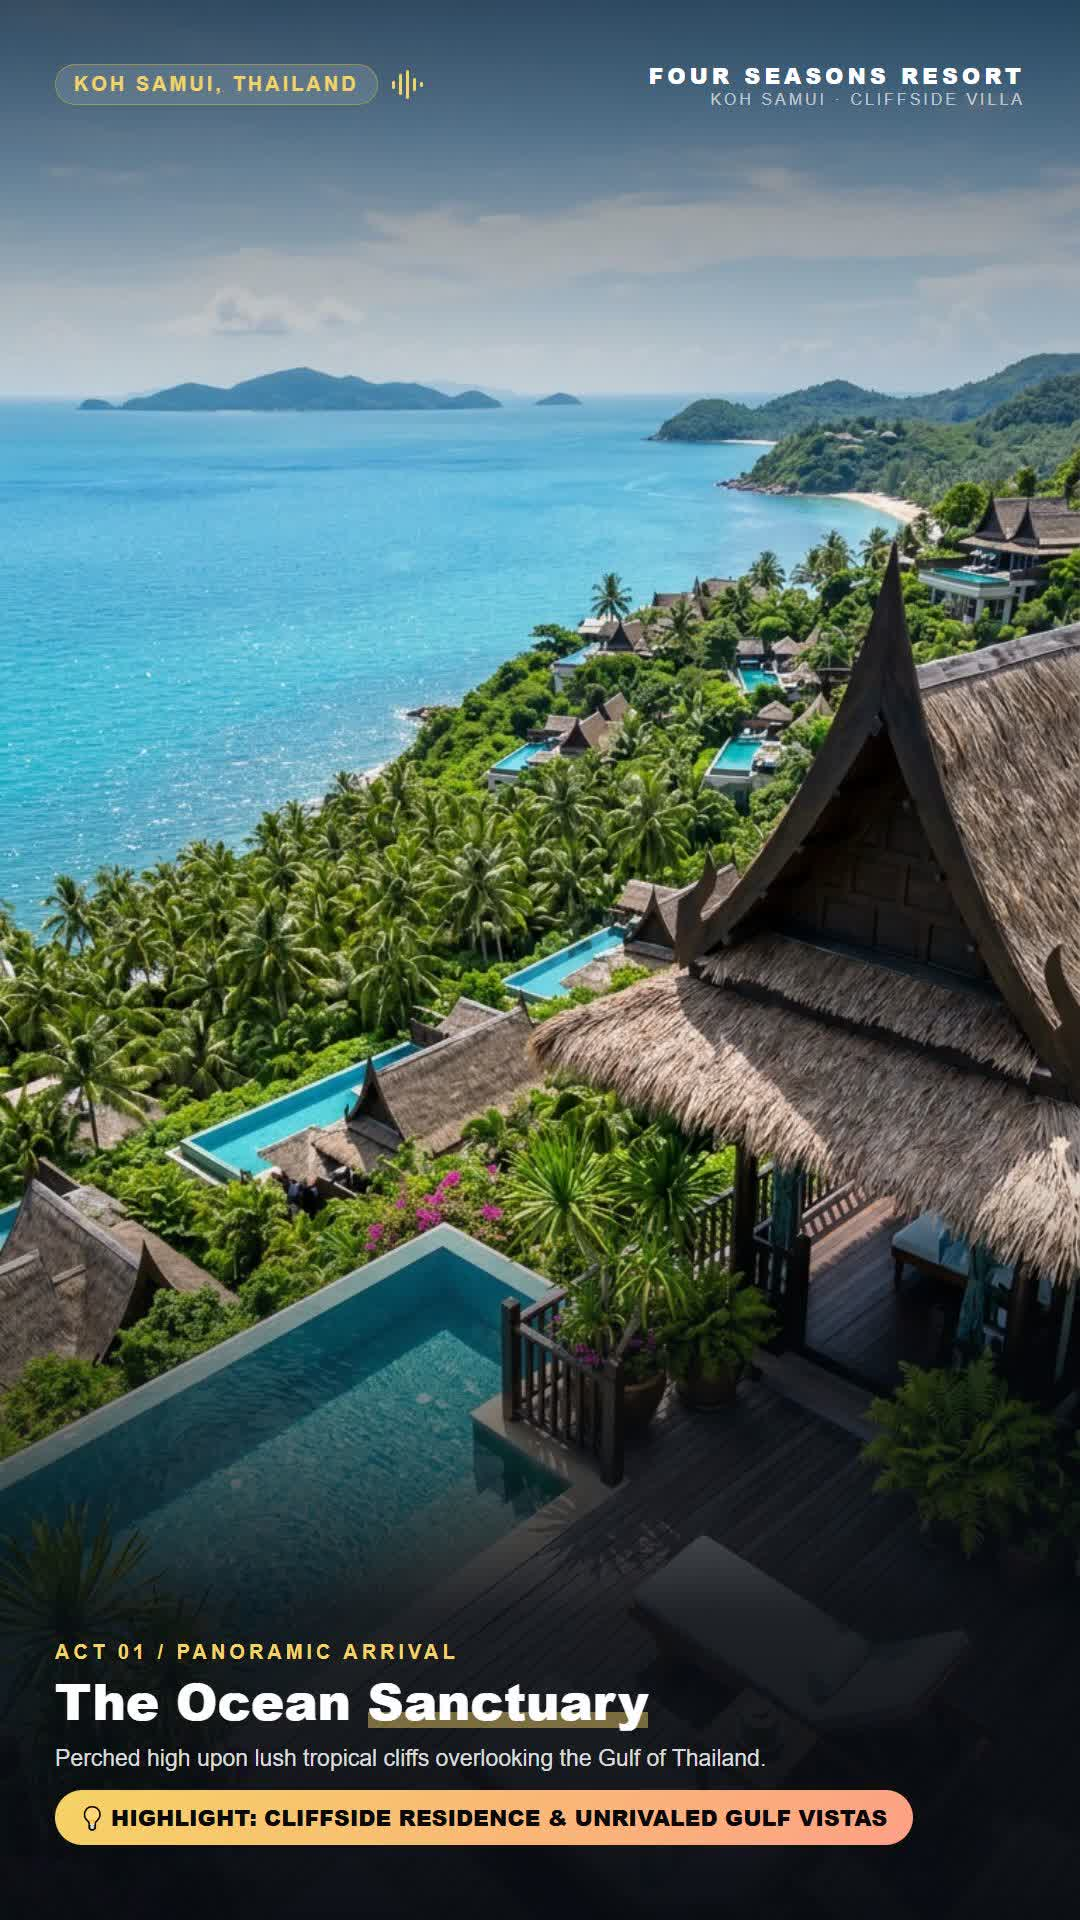
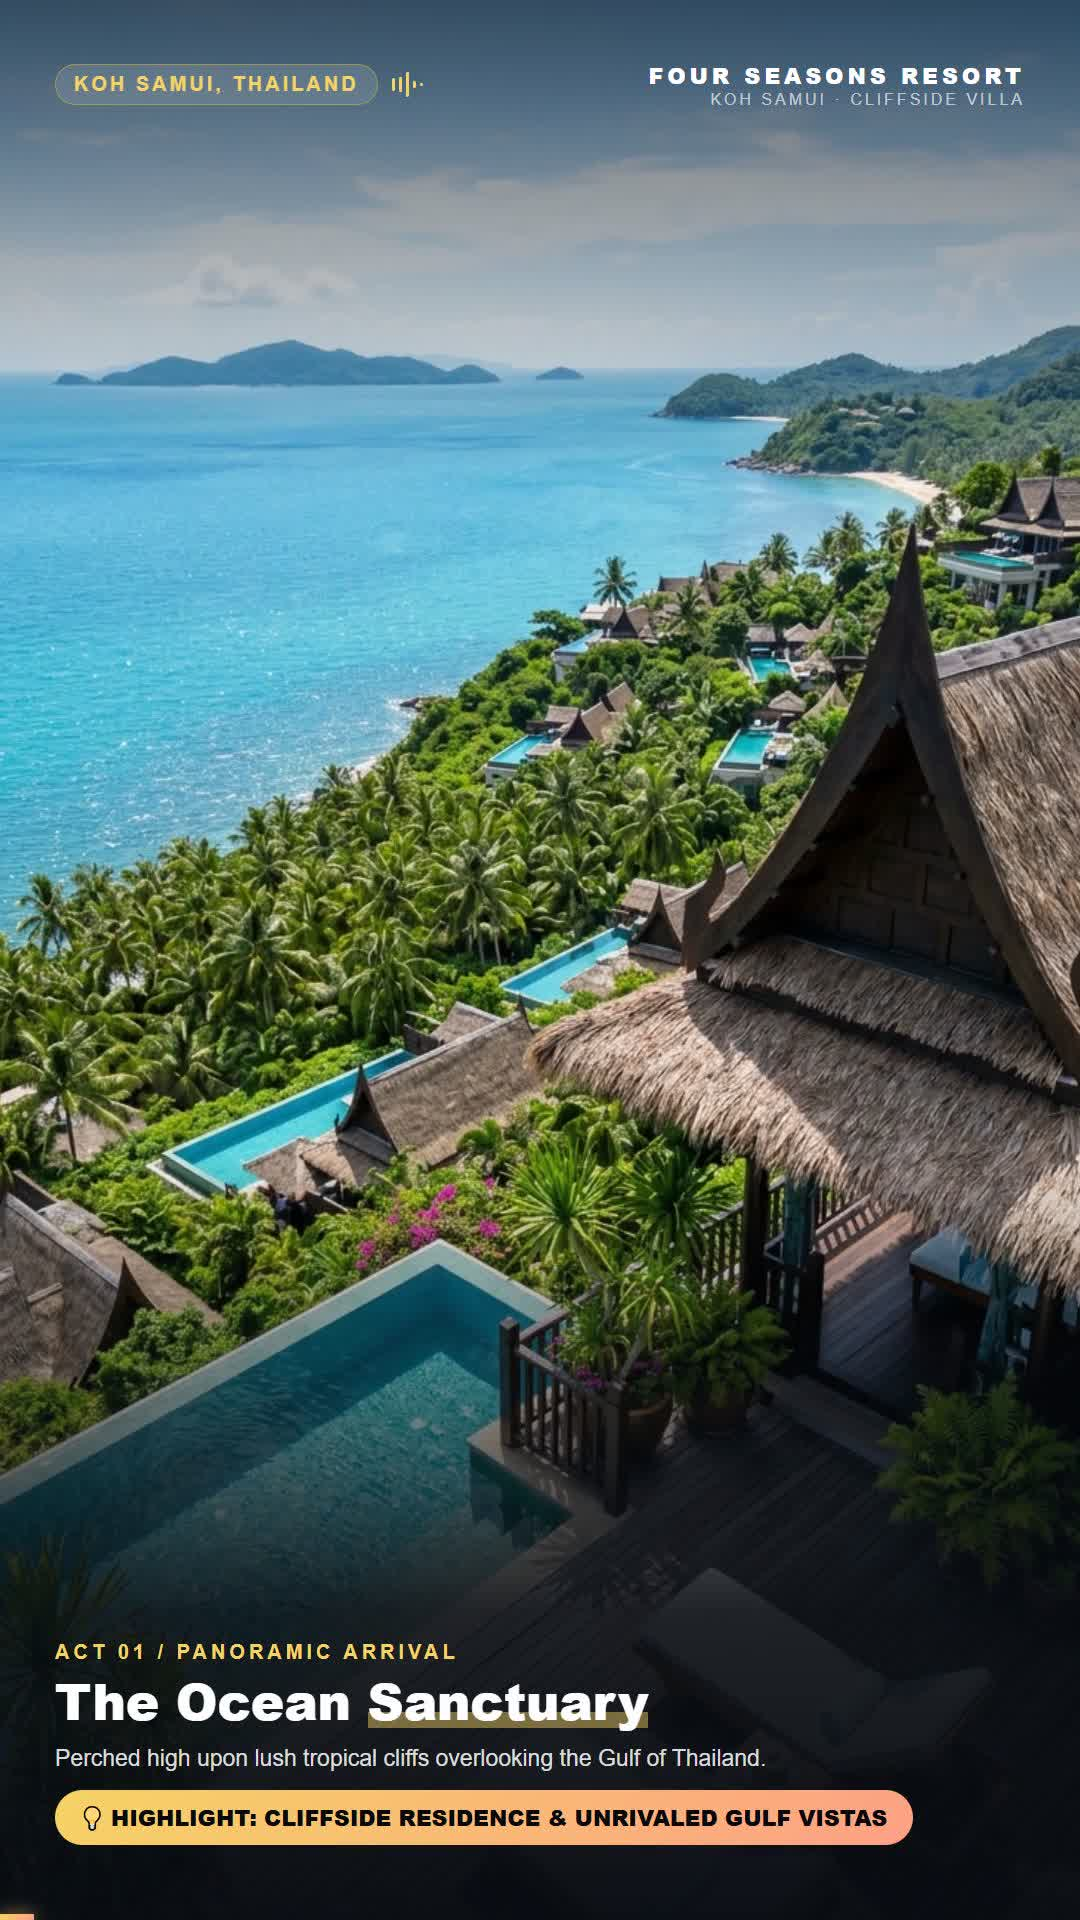
feat: restore Koh Samui 6-act masterpiece reel and update poster thumbnail

diff --git a/app/stayhelper/page.tsx b/app/stayhelper/page.tsx
@@ -188,7 +188,7 @@ const ALL_STAYS: StayInfo[] = [
     forbesTier: "Forbes Travel Guide Five-Star Resort",
     image: "/images/stayhelper/fs_kohsamui_wide_hero.jpg",
     wideHero: "/images/stayhelper/fs_kohsamui_wide_hero.jpg",
-    videoSrc: "/videos/StayHelperKohSamui_v2_NaturalClean_Live.mp4",
+    videoSrc: "/videos/StayHelperKohSamui_v2_6Act_MasterReels.mp4",
     posterSrc: "/images/stayhelper/fs_kohsamui_poster.jpg",
     bookingUrl: "https://www.fourseasons.com/kohsamui/",
     status: "STREAMING",
@@ -1139,8 +1139,9 @@ export default function StayHelperLuxuryShowcase() {
             </div>
           </div>
 
-          {/* Mobile Bottom Content Overlay (Instagram Reels Style) */}
-          <div className="absolute bottom-16 inset-x-4 z-20 space-y-1.5 text-left drop-shadow-2xl pointer-events-auto">
+          {/* Mobile Bottom Content Overlay (Instagram Reels Style - Hidden on stay-04 which has burned-in Remotion typography) */}
+          {currentStay.id !== "stay-04" && (
+            <div className="absolute bottom-16 inset-x-4 z-20 space-y-1.5 text-left drop-shadow-2xl pointer-events-auto">
             {/* Native Swipe Cue */}
             <div className="inline-flex items-center gap-1.5 px-2.5 py-0.5 rounded-full bg-black/60 backdrop-blur-md border border-[#E8D5B5]/30 text-[#E8D5B5] text-[9px] font-mono tracking-widest uppercase">
               <span className="w-1.5 h-1.5 rounded-full bg-emerald-400 animate-pulse" />
@@ -1184,7 +1185,8 @@ export default function StayHelperLuxuryShowcase() {
                 </div>
               </div>
             )}
-          </div>
+            </div>
+          )}
 
           {/* Mobile Bottom Mini Switcher Dock */}
           <div className="absolute bottom-3 inset-x-4 z-20 flex items-center justify-between gap-2 pointer-events-auto">
